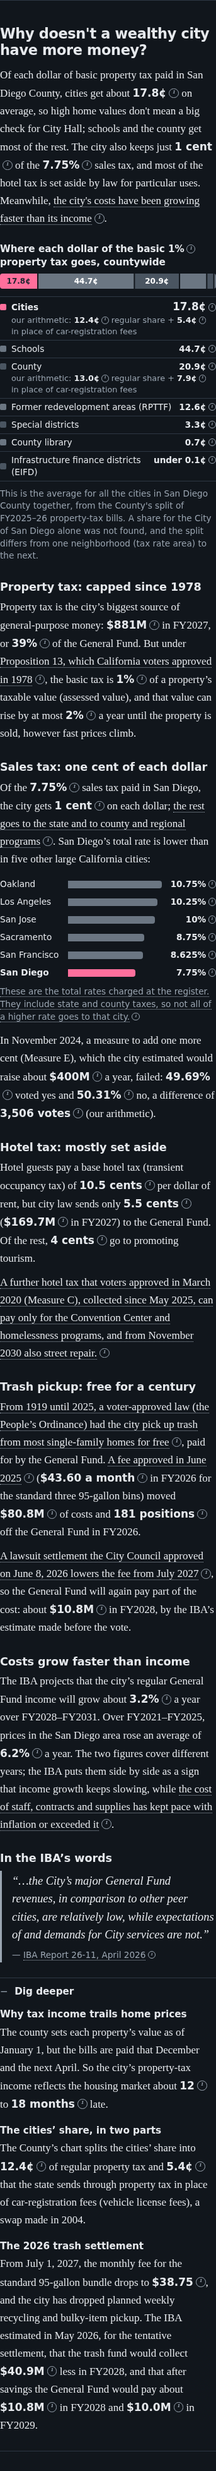
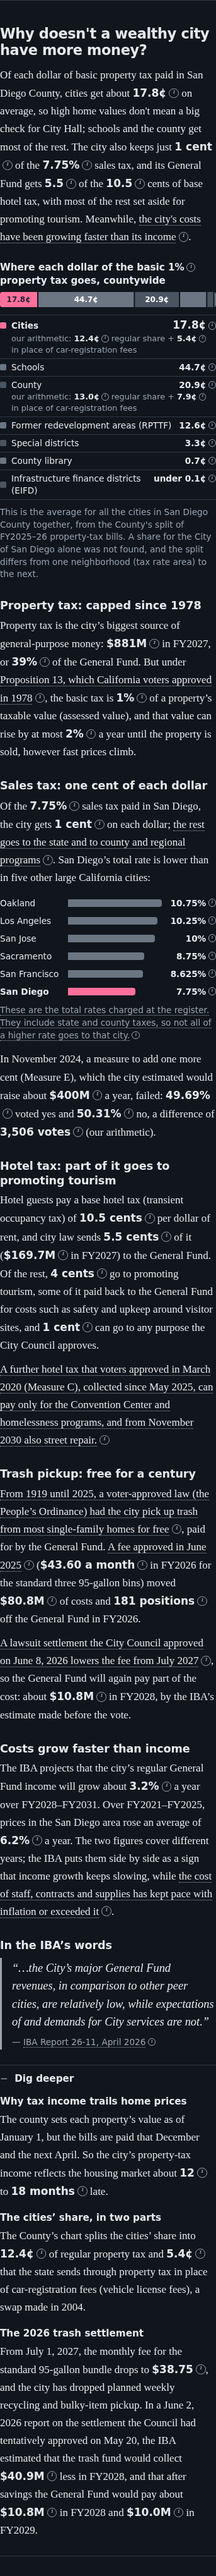
fix(site): section 2 hotel-tax wording and IBA settlement date
- The lead and hotel heading no longer say most of the hotel tax is set aside:
  the General Fund gets 5.5 of the 10.5 base cents; of the rest, 4 cents go to
  tourism promotion (partly paid back to the GF) and 1 cent to any purpose the
  Council approves (new council_cents, GFR p.69). The build checks that
  gf + promo + council cents = base.
- Dig deeper dates the IBA's settlement estimate correctly: IBA 26-15 of
  June 2, 2026, on the settlement tentatively approved May 20 (p.44).

Changed region(s): [[0.0, 0.0, 1.0, 0.9982]]

diff --git a/site/why.js b/site/why.js
@@ -76,10 +76,12 @@ export function blocks(d) {
       h('p', null, 'In November 2024, a measure to add one more cent (Measure E), which the city estimated would raise about ',
         fig(me.est_annual_m, mText(me.est_annual_m.value)), ' a year, failed: ', fig(me.yes_pct, pctText(me.yes_pct.value)), ' voted yes and ',
         fig(me.no_pct, pctText(me.no_pct.value)), ' no, a difference of ', fig(me.margin_votes, `${votes(me.margin_votes.value)} votes`), '.')),
-    block('Hotel tax: mostly set aside',
+    block('Hotel tax: part of it goes to promoting tourism',
       ['Hotel guests pay a base hotel tax (transient occupancy tax) of ', fig(ho.base_cents, centsWord(ho.base_cents.value)),
-        ' per dollar of rent, but city law sends only ', fig(ho.gf_cents, centsWord(ho.gf_cents.value)), ' (', fig(ho.gf_m, mText(ho.gf_m.value)),
-        ' in FY2027) to the General Fund. Of the rest, ', fig(ho.promo_cents, centsWord(ho.promo_cents.value)), ' go to promoting tourism.'],
+        ' per dollar of rent, and city law sends ', fig(ho.gf_cents, centsWord(ho.gf_cents.value)), ' of it (', fig(ho.gf_m, mText(ho.gf_m.value)),
+        ' in FY2027) to the General Fund. Of the rest, ', fig(ho.promo_cents, centsWord(ho.promo_cents.value)),
+        ' go to promoting tourism, some of it paid back to the General Fund for costs such as safety and upkeep around visitor sites, and ',
+        fig(ho.council_cents, centsWord(ho.council_cents.value)), ' can go to any purpose the City Council approves.'],
       [cite(c.measure_c, 'A further hotel tax that voters approved in March 2020 (Measure C), collected since May 2025, can pay only for the Convention Center and homelessness programs, and from November 2030 also street repair.')]),
     block('Trash pickup: free for a century',
       [cite(c.peoples_ordinance, 'From 1919 until 2025, a voter-approved law (the People’s Ordinance) had the city pick up trash from most single-family homes for free'),
@@ -111,7 +113,7 @@ export function dig(d) {
       ' that the state sends through property tax in place of car-registration fees (vehicle license fees), a swap made in 2004.'),
     h('h3', null, 'The 2026 trash settlement'),
     h('p', null, 'From July 1, 2027, the monthly fee for the standard 95-gallon bundle drops to ', fig(tr.settlement_fee_monthly, `$${tr.settlement_fee_monthly.value.toFixed(2)}`),
-      ', and the city has dropped planned weekly recycling and bulky-item pickup. The IBA estimated in May 2026, for the tentative settlement, that the trash fund would collect ',
+      ', and the city has dropped planned weekly recycling and bulky-item pickup. In a June 2, 2026 report on the settlement the Council had tentatively approved on May 20, the IBA estimated that the trash fund would collect ',
       fig(tr.settlement_revenue_cut_fy2028_m, mText(tr.settlement_revenue_cut_fy2028_m.value)), ' less in FY2028, and that after savings the General Fund would pay about ',
       fig(tr.settlement_gf_fy2028_m, mText(tr.settlement_gf_fy2028_m.value)), ' in FY2028 and ', fig(tr.settlement_gf_fy2029_m, mText(tr.settlement_gf_fy2029_m.value)),
       ' in FY2029.'),
@@ -124,6 +126,8 @@ function fillLead(root, d) {
     'property_dollar.cities_cents': (v) => `${v.toFixed(1)}¢`,
     'sales_tax.city_cents_of_rate': (v) => centsWord(v),
     'sales_tax.sd_rate_pct': pctText,
+    'hotel.gf_cents': (v) => v.toFixed(1),
+    'hotel.base_cents': (v) => v.toFixed(1),
   };
   for (const sp of root.querySelectorAll('[data-why-fig]')) {
     const key = sp.dataset.whyFig;

diff --git a/site/index.html b/site/index.html
@@ -48,7 +48,7 @@
 
   <section id="why-short" class="chapter" aria-labelledby="why-short-h">
     <h2 id="why-short-h">Why doesn't a wealthy city have more money?</h2>
-    <p class="lead">Of each dollar of basic property tax paid in San Diego County, cities get about <span data-why-fig="property_dollar.cities_cents">18¢</span> on average, so high home values don't mean a big check for City Hall; schools and the county get most of the rest. The city also keeps just <span data-why-fig="sales_tax.city_cents_of_rate">1 cent</span> of the <span data-why-fig="sales_tax.sd_rate_pct">7.75%</span> sales tax, and most of the hotel tax is set aside by law for particular uses. Meanwhile, <span class="cite" data-src-doc="IBA Report 26-11, Review of the FY 2027 Proposed Budget, Key Citywide Issues: Structural Budget Deficit" data-src-page="77" data-src-url="https://www.sandiego.gov/sites/default/files/2026-04/iba-report-26-11-review-of-the-fiscal-year-2027-proposed-budget_0.pdf">the city's costs have been growing faster than its income</span>.</p>
+    <p class="lead">Of each dollar of basic property tax paid in San Diego County, cities get about <span data-why-fig="property_dollar.cities_cents">18¢</span> on average, so high home values don't mean a big check for City Hall; schools and the county get most of the rest. The city also keeps just <span data-why-fig="sales_tax.city_cents_of_rate">1 cent</span> of the <span data-why-fig="sales_tax.sd_rate_pct">7.75%</span> sales tax, and its General Fund gets <span data-why-fig="hotel.gf_cents">5.5</span> of the <span data-why-fig="hotel.base_cents">10.5</span> cents of base hotel tax, with most of the rest set aside for promoting tourism. Meanwhile, <span class="cite" data-src-doc="IBA Report 26-11, Review of the FY 2027 Proposed Budget, Key Citywide Issues: Structural Budget Deficit" data-src-page="77" data-src-url="https://www.sandiego.gov/sites/default/files/2026-04/iba-report-26-11-review-of-the-fiscal-year-2027-proposed-budget_0.pdf">the city's costs have been growing faster than its income</span>.</p>
     <figure class="chart" id="s2-cents"></figure>
     <figure class="chart" id="s2-blocks"></figure>
     <details class="dig"><summary>Dig deeper</summary>

diff --git a/pipeline/build.py b/pipeline/build.py
@@ -434,7 +434,7 @@ WHY_GROUP_TOLERANCE = 0.05
 WHY_FIGURES = {
     "property_dollar": ("cities_cents",),
     "sales_tax": ("sd_rate_pct", "city_cents_of_rate"),
-    "hotel": ("base_cents", "gf_cents", "gf_m"),
+    "hotel": ("base_cents", "gf_cents", "promo_cents", "council_cents", "gf_m"),
     "trash": ("moved_m", "positions", "fee_monthly", "settlement_gf_fy2028_m"),
     "growth": ("revenue_pct", "inflation_pct"),
     "prop13": ("rate_pct", "cap_pct", "lag_low_months", "lag_high_months"),
@@ -444,7 +444,7 @@ WHY_FIGURES = {
 def build_why_short(d: dict) -> dict:
     """Section 2 figures. Checks: the County's property-tax slices sum to 100 cents (within 0.2), the "Cities"
     slices add up to cities_cents, the Measure E margin is no - yes votes and labeled our arithmetic, San Diego
-    is among the peer rates at sd_rate_pct, and every required figure, period and source is present."""
+    is among the peer rates at sd_rate_pct, the hotel cents add up to the base rate, and every required figure, period and source is present."""
     d = copy.deepcopy(d)
     for sec, keys in WHY_FIGURES.items():
         if not isinstance(d.get(sec), dict):
@@ -503,6 +503,9 @@ def build_why_short(d: dict) -> dict:
 
     if d["hotel"]["gf_cents"]["value"] >= d["hotel"]["base_cents"]["value"]:
         raise ValueError("hotel.gf_cents: must be less than base_cents")
+    ho = {k: d["hotel"][k]["value"] for k in ("base_cents", "gf_cents", "promo_cents", "council_cents")}
+    if abs(ho["gf_cents"] + ho["promo_cents"] + ho["council_cents"] - ho["base_cents"]) > WHY_GROUP_TOLERANCE:
+        raise ValueError("hotel: gf_cents + promo_cents + council_cents must equal base_cents")
     for k in ("revenue_period", "inflation_period"):
         if not isinstance(d["growth"].get(k), str) or not d["growth"][k].strip():
             raise ValueError(f"growth.{k}: required non-empty string (state both periods; they differ)")

diff --git a/tests/test_curated_v2.py b/tests/test_curated_v2.py
@@ -198,6 +198,9 @@ def test_why_short_sources_and_arithmetic():
     assert (d["property_tax_m"]["value"], d["property_tax_share_pct"]["value"]) == (881.0, 39.0)
     assert d["trash"]["settlement_gf_fy2028_m"]["value"] == 10.8
     assert d["trash"]["settlement_gf_fy2028_m"]["source"]["page"] == 45
+    h = d["hotel"]
+    assert (h["promo_cents"]["value"], h["council_cents"]["value"]) == (4.0, 1.0)
+    assert "June 2, 2026" in d["trash"]["settlement_gf_fy2028_m"]["source"]["doc"]
 
 
 @pytest.mark.parametrize("edit, where", [
@@ -207,6 +210,7 @@ def test_why_short_sources_and_arithmetic():
     (lambda d: d["sales_tax"]["peers"].pop(), "peers"),
     (lambda d: d["growth"].__setitem__("revenue_period", ""), "growth.revenue_period"),
     (lambda d: d["quote"]["source"].__setitem__("url", "http://x"), "quote.source"),
+    (lambda d: d["hotel"]["promo_cents"].__setitem__("value", 5.0), "hotel"),
 ])
 def test_why_short_rejects_bad_input(edit, where):
     d = copy.deepcopy(curated.load(CUR, "why_short"))

diff --git a/docs/data-contracts.md b/docs/data-contracts.md
@@ -25,9 +25,9 @@ All files are compact JSON. Every hand-transcribed number is a **Figure** `{"val
   - Opening thresholds (ruling R9, for size): a fund or department opens into categories only at ≥ $15M (`FUND_DEPT_CATEGORY_MIN_M`), a category into accounts only at ≥ $50M (`ACCOUNT_LEVEL_MIN_M`), and a CSV "Everything else" box into its rolled items only at ≥ $50M (`EVERYTHING_ELSE_OPEN_MIN_M`); below that a box is a leaf. Full itemization would be ~454 KB.
   - `unmatched` counts the detail-year rows the loader drops because their account number is missing from ref_accounts.csv (FY2026: 12 rows, 83.063; drawn nowhere, stated in the methods note).
   - Checks (`checks.py`): file < 130,000 bytes (127,713 after R12); every level-1 child of `general_fund` in/out, `utilities` out and `purpose` out, plus `_no_fund`, has a `descs` entry with text; for every node whose children all share its `fy`, children + offsets equal `value_m` within 1% (children from a different year are detail and are not checked).
-- **why_short.json** (`pipeline/build.py` `build_why_short`) — section 2. `{property_dollar: {slices: [{label, group?, cents: Figure}×9], cities_cents: Figure, note}, sales_tax: {sd_rate_pct, city_cents_of_rate, peers: [{city, rate_pct: Figure}×6], measure_e: {yes_pct, no_pct, yes_votes, no_votes, margin_votes, est_annual_m}}, hotel: {base_cents, gf_cents, promo_cents, gf_m}, trash: {moved_m, positions, fee_monthly, settlement_gf_fy2028_m, settlement_gf_fy2029_m, settlement_revenue_cut_fy2028_m, settlement_fee_monthly}, growth: {revenue_pct, revenue_period: str, inflation_pct, inflation_period: str}, quote: {text, source: Source}, property_tax_m, property_tax_share_pct, prop13: {rate_pct, cap_pct, lag_low_months, lag_high_months}, cites: {key: Source}}`. Every number is a Figure; `cites` holds the sources of copy that states no number (Prop 13's year, Measure C, the People's Ordinance, ...).
-  - `slices` is the County Auditor's full Figure 1 list (FY2025-26 receivable, p.4), in drawing order: Cities 12.4 + Cities in-lieu VLF 5.4 (`group: "Cities"`), Schools 44.7, County 13.0 + County in-lieu VLF 7.9 (`group: "County"`), RPTTF 12.6, Special districts 3.3, County library 0.7, EIFD 0.0 (the County's "less than 0.1%"). `cities_cents` 17.8 is the city budget's "$17.80 per $100" (GFR p.62): a countywide average for cities, not a San Diego-specific share. Peers (CDTFA, Oct 1, 2026; page null): Oakland 10.75, Los Angeles 10.25, San Jose 10.0, Sacramento 8.75, San Francisco 8.625, San Diego 7.75. Measure E: 49.69 / 50.31 %, 284,940 / 288,446 votes (ROV p.12), margin 3,506 (our arithmetic), about $400M a year (Measure E ballot summary; no printed page numbers, page null). Hotel 10.5 / 5.5 / 4.0 cents, $169.7M (GFR p.69). Trash $80.8M and 181 positions (FY2026 ES p.6), $43.60/month (city FAQ web page), settlement $10.8M FY2028 / $10.0M FY2029 / $40.9M (IBA 26-15 p.45), $38.75 (press release). Growth 3.2 % over "FY2028–FY2031" vs inflation 6.2 % over "FY2021–FY2025" (IBA 25-36 p.9; different periods, both stated on screen). Quote: IBA 26-11 p.77.
-  - **Build invariants** (each tested): slices sum to 100 within 0.2; the `Cities` slices sum to `cities_cents` within 0.05; `margin_votes` = `no_votes` − `yes_votes` and its doc starts "our arithmetic: "; `yes_pct` + `no_pct` = 100; San Diego is in `peers` at `sd_rate_pct`; `gf_cents` < `base_cents`; both growth periods are non-empty; `quote.source` and every `cites` entry are valid Sources.
+- **why_short.json** (`pipeline/build.py` `build_why_short`) — section 2. `{property_dollar: {slices: [{label, group?, cents: Figure}×9], cities_cents: Figure, note}, sales_tax: {sd_rate_pct, city_cents_of_rate, peers: [{city, rate_pct: Figure}×6], measure_e: {yes_pct, no_pct, yes_votes, no_votes, margin_votes, est_annual_m}}, hotel: {base_cents, gf_cents, promo_cents, council_cents, gf_m}, trash: {moved_m, positions, fee_monthly, settlement_gf_fy2028_m, settlement_gf_fy2029_m, settlement_revenue_cut_fy2028_m, settlement_fee_monthly}, growth: {revenue_pct, revenue_period: str, inflation_pct, inflation_period: str}, quote: {text, source: Source}, property_tax_m, property_tax_share_pct, prop13: {rate_pct, cap_pct, lag_low_months, lag_high_months}, cites: {key: Source}}`. Every number is a Figure; `cites` holds the sources of copy that states no number (Prop 13's year, Measure C, the People's Ordinance, ...).
+  - `slices` is the County Auditor's full Figure 1 list (FY2025-26 receivable, p.4), in drawing order: Cities 12.4 + Cities in-lieu VLF 5.4 (`group: "Cities"`), Schools 44.7, County 13.0 + County in-lieu VLF 7.9 (`group: "County"`), RPTTF 12.6, Special districts 3.3, County library 0.7, EIFD 0.0 (the County's "less than 0.1%"). `cities_cents` 17.8 is the city budget's "$17.80 per $100" (GFR p.62): a countywide average for cities, not a San Diego-specific share. Peers (CDTFA, Oct 1, 2026; page null): Oakland 10.75, Los Angeles 10.25, San Jose 10.0, Sacramento 8.75, San Francisco 8.625, San Diego 7.75. Measure E: 49.69 / 50.31 %, 284,940 / 288,446 votes (ROV p.12), margin 3,506 (our arithmetic), about $400M a year (Measure E ballot summary; no printed page numbers, page null). Hotel 10.5 / 5.5 / 4.0 / 1.0 (Council) cents, $169.7M (GFR p.69). Trash $80.8M and 181 positions (FY2026 ES p.6), $43.60/month (city FAQ web page), settlement $10.8M FY2028 / $10.0M FY2029 / $40.9M (IBA 26-15 of June 2, 2026, p.45, on the settlement tentatively approved May 20), $38.75 (press release). Growth 3.2 % over "FY2028–FY2031" vs inflation 6.2 % over "FY2021–FY2025" (IBA 25-36 p.9; different periods, both stated on screen). Quote: IBA 26-11 p.77.
+  - **Build invariants** (each tested): slices sum to 100 within 0.2; the `Cities` slices sum to `cities_cents` within 0.05; `margin_votes` = `no_votes` − `yes_votes` and its doc starts "our arithmetic: "; `yes_pct` + `no_pct` = 100; San Diego is in `peers` at `sd_rate_pct`; `gf_cents` < `base_cents` and gf + promo + council cents = `base_cents`; both growth periods are non-empty; `quote.source` and every `cites` entry are valid Sources.
   - **Site derivation** (`site/charts/cents-bar.js` `prepare`): adjacent slices sharing a `group` merge into one segment named by the group, with an "our arithmetic: 12.4 (Cities) + 5.4 (...) = 17.8" Figure and `parts`; segments tile 0..100 and exactly one (`Cities`) has `highlight: true`. `site/why.js` `rateBars` sorts the peers high to low and marks San Diego.
 
 Popover convention: any element with `data-src-doc`, `data-src-page`, `data-src-url` gets a footnote button; figures in copy are `<span class="figure" data-src-...>`. Acceptance checks assert `.figure:not([data-src-url])` is empty and that every `[data-src-url]` has a footnote button.
